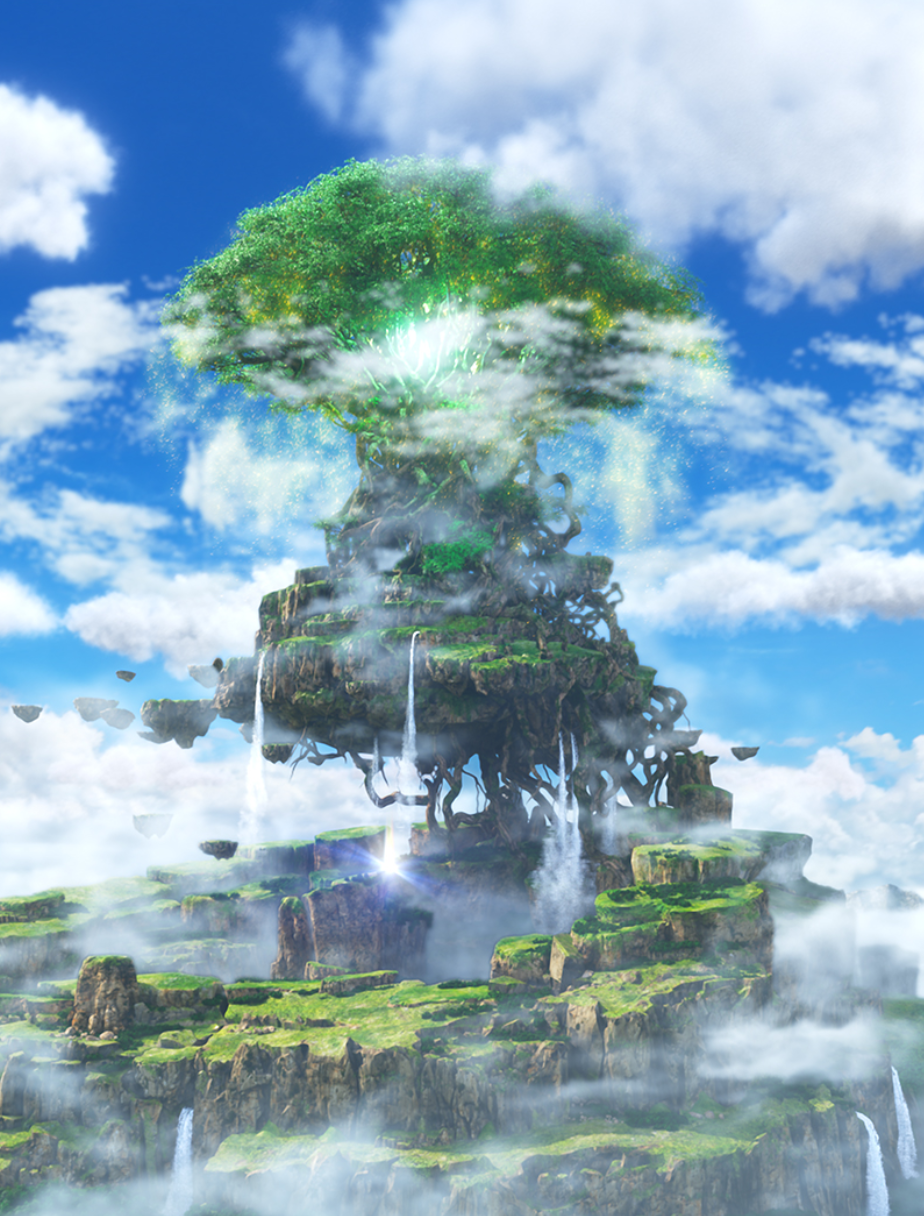
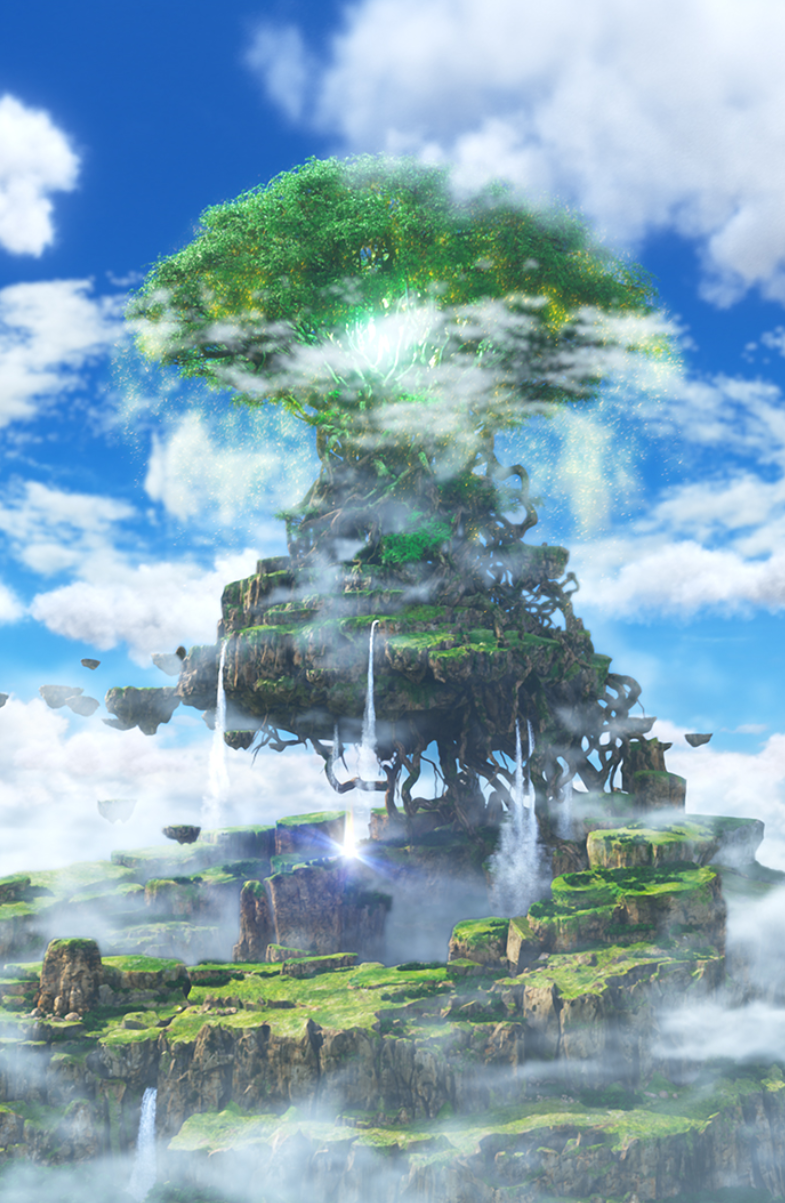
add: dragonの画像を出力

diff --git a/hearable_device_sdk_sample/lib/result.dart b/hearable_device_sdk_sample/lib/result.dart
@@ -22,7 +22,7 @@ class Result extends StatelessWidget {
           Container(
             decoration: const BoxDecoration(
               image: DecorationImage(
-                  image: AssetImage('assets/background_image_2.jpg'),
+                  image: AssetImage('assets/result.png'),
                   //fit: BoxFit.cover,
                   fit: BoxFit.fitHeight),
             ),
